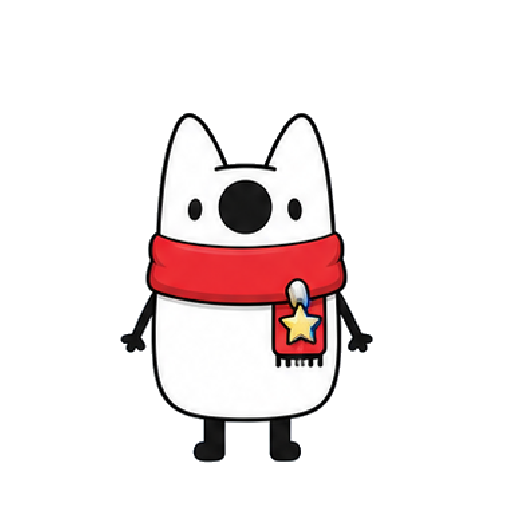
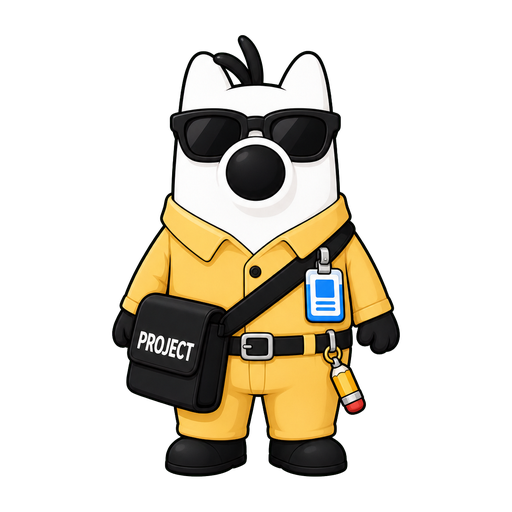
Update MBTI pet level assets

Changed region(s): [[0.2188, 0.0625, 0.7812, 0.9375]]

diff --git a/p0_mock/static/app.js b/p0_mock/static/app.js
@@ -84,7 +84,7 @@ const FALLBACK_LEVEL_REQUIREMENTS = [
   { level: 10, title: "宇宙知识领航者", requiredTotalExp: 2500 },
 ];
 const PET_SKINS = [
-  { id: "normal", label: "普通", assetBase: "/static/assets/pet-level", tone: "normal" },
+  { id: "normal", label: "MBTI", assetBase: "/static/assets/pet-level", tone: "normal" },
   { id: "yanxuan", label: "盐选会员", assetBase: "/static/assets/yanxuan-member", tone: "gold" },
   { id: "knowledge", label: "知识会员", assetBase: "/static/assets/knowledge-member", tone: "blue" },
 ];
